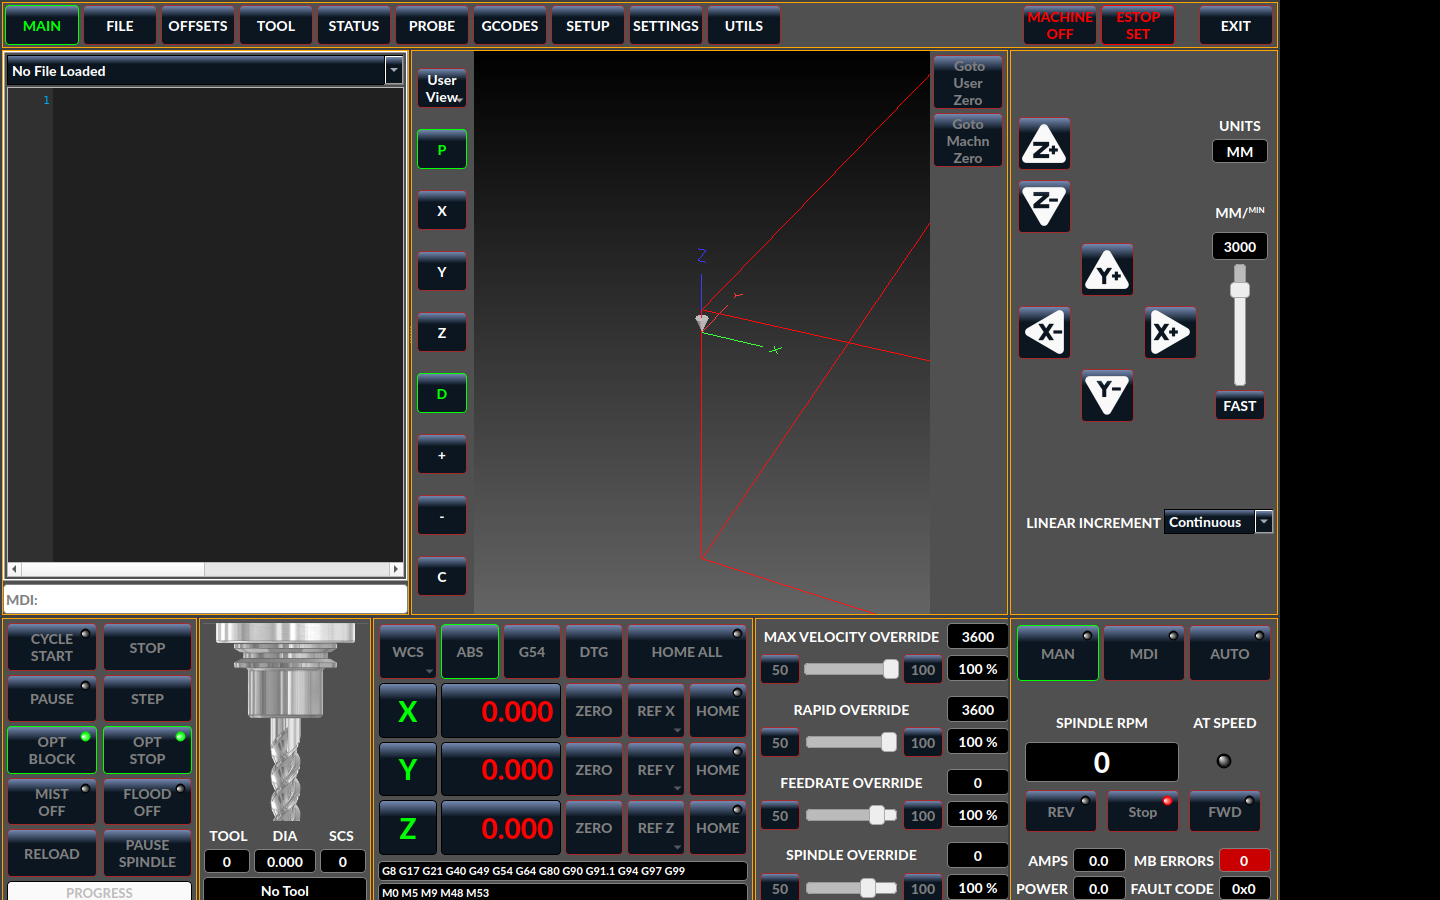
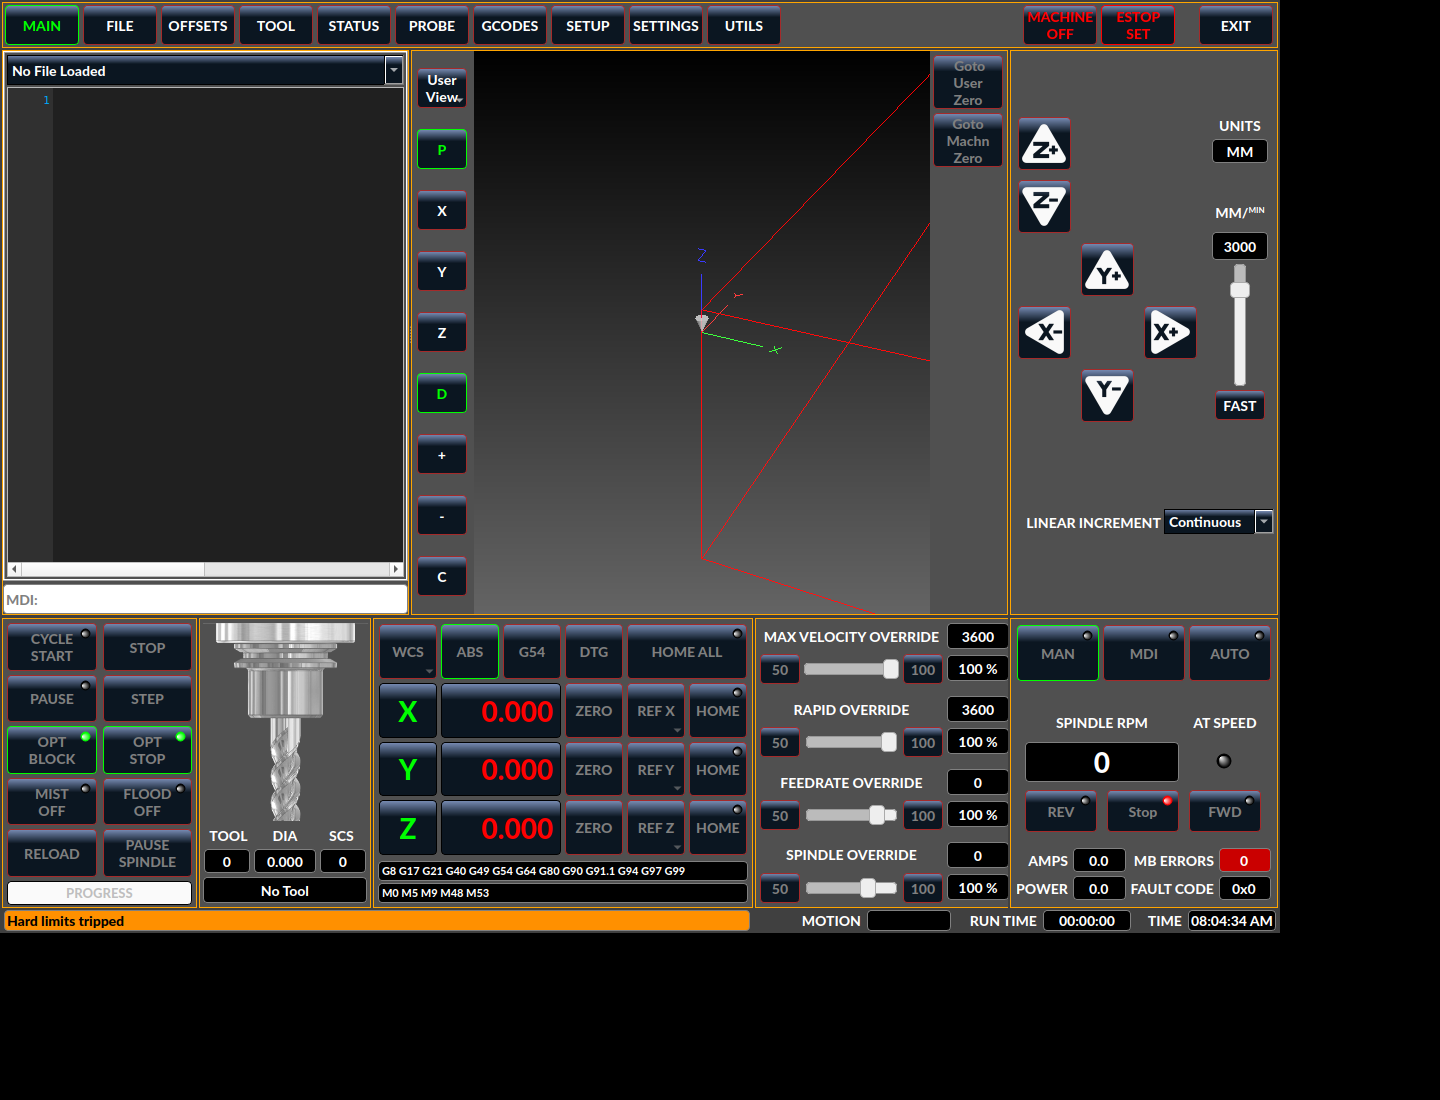
sesja 003: zapis wynikow i przekazanie przed koncem CI
Model-Author: Codex

diff --git a/docs/NASTEPNA_SESJA.md b/docs/NASTEPNA_SESJA.md
@@ -1,49 +1,74 @@
-# Przekazanie do następnej sesji
+# Przekazanie po sesji 003
 
-Model-Author: Codex · 2026-10-17
+Model-Author: Codex · 2026-10-18
 
-## Katalog i Git
+## Repozytorium i zasady
 
-Repo: https://github.com/anonimov94/linumeRT
-Aktualny checkout Windows:
-`C:/Users/pc/Documents/PythonProjects/linumeRT/.collaboration/linumeRT`
+Repo: https://github.com/anonimov94/linumeRT — PR sesji 003: #3.
+Przed pracą sprawdź jego stan, pobierz main i sprawdź czystość checkoutu.
+Windows: `C:/Users/pc/Documents/PythonProjects/linumeRT/.collaboration/linumeRT`.
 WSL: `/mnt/c/Users/pc/Documents/PythonProjects/linumeRT/.collaboration/linumeRT`.
-Katalog nadrzędny jest starszą kopią dokumentacji bez własnego repo; nie pracuj w nim.
+Katalog nadrzędny zawiera starszą kopię dokumentacji; nie pracuj w nim.
 
-PR #1: zasady współpracy, scalony. PR #2: paczka testowa z VNC, sprawdź aktualny
-stan przed rozpoczęciem. Dawne gałęzie sesji 001 i 002 są już zawarte w main.
+Claude niedostępny do odwołania. Codex pracuje samodzielnie: PR, jawna
+autokontrola i testy, merge po sukcesie. Po każdym ukończonym kroku commit
+i push, zawsze `Model-Author: Codex`. Nie nazywaj autokontroli niezależnym review.
 
-## Zasady użytkownika
+## Działające środowisko
 
-Claude jest niedostępny do odwołania. Codex kontynuuje samodzielnie przez PR,
-autokontrolę i testy; nie czeka na Claude. Oznaczaj autorstwo modelu w commitach,
-PR i dzienniku. Po każdym ukończonym kroku commit i push, bez czekania na koniec
-sesji lub limit tokenów. Po ukończonym etapie przekaż prompt następnej sesji.
+LinuxCNC gałąź 2.9, SHA `a33293f46575c809e082e0806e79ab996f982513`, RIP/uspace
+w `/home/pc/.cache/linuxcnc-2.9`. D20 przyjęta. Pełna budowa po make clean: 50 s.
+Raport: `docs/raporty/SPIKE_LINUXCNC.md`; zrzut: `spike_qtdragon.png` obok niego.
+Kod upstream niezmieniony. Ubuntu 24.04 WSL2 to środowisko dev non-realtime;
+docelowy system nadal Debian 12. NIEZWERYFIKOWANE NA SPRZĘCIE.
 
-## Gotowa paczka testowa
+```bash
+bash tools/ci/build-linuxcnc.sh
+.venv/bin/python tools/agent_tests/run.py --model Codex --linuxcnc
+make test-linuxcnc PYTHON=.venv/bin/python
+```
 
-`tools/agent_tests/README.md`: runner, launcher Windows i VNC.
-Pełna próba Windows -> WSL -> VNC -> terminal -> raport: PASS, 47 testów, czysty lint.
-Venv `.venv` z pytest/ruff istnieje w Ubuntu-24.04; python3-venv doinstalowany.
-Uruchomienie: `tools/agent_tests/Start-Tests.ps1 -Model Codex -DisplayNumber 11`.
-Jeśli ta sesja nadal działa, użyj istniejącego pulpitu zamiast uruchamiać drugi na
-tym samym porcie. Podczas przekazania aktywny podgląd paczki używał portu 5911,
-DISPLAY=:11 i XAUTHORITY=/tmp/linumert-vnc.atrgdu3j/Xauthority.
-Te dane dotyczą bieżącego uruchomienia; po restarcie odczytaj wartości z nowego startu.
-Starszy ręczny podgląd mógł pozostać na porcie 5909. Nie zabijaj obcych sesji.
-Lokalne raporty `state/test-runs/` są ignorowane przez Git.
+Venv używa systemowych pakietów GUI. Jeśli brak zależności:
+`bash tools/ci/build-linuxcnc.sh --install-deps` (apt wymaga administratora).
+WSL nie ma sudo bez hasła; zależności instalowano przez `wsl -u root`.
+Nie uruchamiaj builda ani GUI jako root. Nie wykonano `make setuid`.
 
-## Następne zadanie — sesja 003
+Testy: import, bazowanie trzech osi, ruch MDI i położenie końcowe, gotowość
+QtDragon oraz poprawne zamknięcie okna. API statusu upstream nie toleruje
+zbyt wczesnego pierwszego poll; fixture czeka na udany osobny proces próbny.
+Testowa preferencja shutdown_check=False omija dialog potwierdzenia zamknięcia.
 
-Przeczytaj AGENTS.md, CLAUDE.md, DECYZJE, trzy ostatnie wpisy DZIENNIK oraz
-`prompts/sesja-003.md`. Zrealizuj spike LinuxCNC 2.9 zgodnie z promptem:
-skrypt budowania RIP/uspace, test importu i konfiguracji sim, próba QtDragon
-pod Xvfb z raportem, workflow ręczny/tygodniowy i decyzja D20 na podstawie
-rzeczywistych wyników. Pokazuj postęp w terminalu VNC użytkownika.
+Workflow `linuxcnc.yml`: PR narzędzi integracyjnych, ręczny, tygodniowy;
+cache budowy i artefakty dowodowe. JSON/logi lokalne: `state/test-runs/`.
 
-LinuxCNC nie został jeszcze zbudowany ani uruchomiony w tej sesji.
-Nie wpisuj 003 do DONE przed spełnieniem kryteriów. Ubuntu WSL jest środowiskiem
-deweloperskim; docelowy system projektu nadal Debian 12 + LinuxCNC 2.9.
-Historyczny prompts/LOCK wskazuje sesję Claude 001; właściciel potwierdził,
-że Claude nie pracuje. Przejmij blokadę jawnie do swojej sesji, zachowując ślad
-w dzienniku. Nie instaluj ani nie uruchamiaj sterowania rzeczywistą maszyną.
+## VNC
+
+W tej sesji uruchomiono wspólny launcher na localhost:5911, DISPLAY=:11,
+XAUTHORITY=/tmp/linumert-vnc.rSYjwuGM/Xauthority. To dane bieżącego procesu,
+nie konfiguracja trwała. Sprawdź procesy przed uruchomieniem kolejnego pulpitu.
+Po restarcie użyj `tools/agent_tests/Start-Tests.ps1 -Model Codex -DisplayNumber 11`.
+Pokazuj także testy integracyjne w terminalu VNC. Nie zabijaj obcych sesji.
+
+## Następne zadanie — sesja 004
+
+Przeczytaj AGENTS.md, CLAUDE.md, DECYZJE, trzy ostatnie wpisy DZIENNIK i
+`prompts/sesja-004.md`. Zbuduj własną konfigurację `config/sim/linumert_xyz/`
+na bazie przykładów QtDragon: XYZ w mm, kontrakt D05, narzędzia i programy
+testowe, dokumentacja HAL i WSL. Rejestruj pochodzenie upstream i licencje.
+Wykorzystaj istniejący RIP i wspólny runner; sesja 003 nie tworzy docelowej
+konfiguracji ani Plant. Uporządkuj ścieżki PROGRAM_PREFIX/NGCGUI, które
+w przykładzie upstream dają ostrzeżenia. Opcjonalny podgląd PDF nie jest testowany.
+
+Historyczną blokadę Claude 001 przejęto jawnie w dzienniku sesji 003.
+Przed następną pracą sprawdź `prompts/LOCK`; nie uruchamiaj równoległych LinuxCNC.
+
+## Stan zatrzymania na prośbę właściciela
+
+Praca zatrzymana 2026-10-18. Sesja 003 NIE jest jeszcze wpisana do DONE.
+Najpierw dokończ sesję 003: sprawdź aktualne kontrole PR #3, wykonaj autokontrolę
+końcowego diffu, scal dopiero po sukcesie, dopisz DONE i zwolnij blokadę.
+Dopiero potem przejdź do sesji 004 opisanej wyżej.
+Ostatni lokalny runner: PASS, 47 testów bazowych + 2 integracyjne, lint i diff OK.
+Raport: `state/test-runs/20261018T060319.515034Z-Codex/report.json`.
+Pełna przebudowa po make clean: 50 s. CI Python zielone; CI LinuxCNC nadal
+trwało przy zatrzymaniu. PR pozostaje draft, bez merge. Pulpit VNC pozostawiony.

diff --git a/docs/raporty/SPIKE_LINUXCNC.md b/docs/raporty/SPIKE_LINUXCNC.md
@@ -28,7 +28,7 @@ python3 -m venv --system-site-packages .venv
 ```
 
 Osobno: `make test-linuxcnc PYTHON=.venv/bin/python`. Ten cel ładuje
-`scripts/rip-environment`, uruchamia Xvfb 1440×900 i testy z markerem linuxcnc.
+`scripts/rip-environment`, uruchamia Xvfb 1440×1100 i testy z markerem linuxcnc.
 Brak budowy kończy się błędem. Skrypt budowy ponownie używa zgodnego cache;
 nie aktualizuje samodzielnie istniejącego checkoutu. Zmiana rewizji upstream
 wymaga jawnego fetch/checkout lub nowego katalogu `LINUXCNC_DIR`.
@@ -53,6 +53,8 @@ wymaga jawnego fetch/checkout lub nowego katalogu `LINUXCNC_DIR`.
 1. `debian/configure no-docs` ostrzega o nierozpoznanej wersji Ubuntu 24.04.
    Listę zależności oparto na wygenerowanym `debian/control` i doprecyzowano
    przez rzeczywistą kompilację. Brak `a2x` wymagał AsciiDoc, DocBook i xsltproc.
+   Czysty runner CI ujawnił dodatkowo brak `docbook-xml` (DTD) przy instalacji
+   bez rekomendacji; dodano go jawnie wraz z `libxml2-utils`.
 2. Wywołanie `linuxcnc.stat().poll()` zanim powstanie pamięć narzędzi ustawia
    w upstream trwały dla procesu stan błędu `mmap_available`. Gotowość sprawdza
    osobny krótki proces; właściwy klient powstaje dopiero po sukcesie próby.
@@ -62,7 +64,8 @@ wymaga jawnego fetch/checkout lub nowego katalogu `LINUXCNC_DIR`.
    (brak python3-poppler-qt5) oraz ścieżek NGCGUI/PROGRAM_PREFIX. Nie blokują
    ekranu; konfiguracja sesji 004 powinna ustawić własne poprawne ścieżki.
 5. Zatrzymywanie całej grupy sygnałem SIGTERM powodowało awarię Qt podczas
-   zamykania. Test zamyka okno komunikatem WM_DELETE_WINDOW i kontroluje log.
+   zamykania. Test zamyka okno komunikatem WM_DELETE_WINDOW, wyłącza dialog
+   potwierdzenia tylko w tymczasowym qtdragon.pref i kontroluje log.
 6. Zdarzały się przekroczenia okresu pętli symulacji pod WSL. To środowisko
    funkcjonalnych testów non-realtime, nie pomiar opóźnień docelowego jądra RT.
 
@@ -72,3 +75,12 @@ wymaga jawnego fetch/checkout lub nowego katalogu `LINUXCNC_DIR`.
 dla PR zmieniających narzędzia integracyjne. Cache uwzględnia SHA upstream,
 wersję systemu, architekturę i skrypt budowania. Instalacja zależności jest
 wykonywana również przy trafieniu cache. Każdy przebieg ponawia testy.
+
+## Pomiar i końcowy stan lokalny
+
+Pełna kompilacja po `make clean`: **50 s** (autogen + configure + make -j12,
+bez apt i klonowania). Wcześniejsza przebudowa przyrostowa: 14 s.
+Końcowy runner lokalny: PASS — 47 testów bazowych i 2 integracyjne, lint/diff OK.
+Raport: `state/test-runs/20261018T060319.515034Z-Codex/report.json`.
+Na polecenie właściciela zakończono pracę przed ukończeniem CI LinuxCNC.
+CI Python przeszło; PR #3 pozostaje otwarty. Sesja 003 nie jest jeszcze w DONE.

diff --git a/docs/DZIENNIK.md b/docs/DZIENNIK.md
@@ -45,3 +45,11 @@ Najnowsze wpisy na dole. Każda sesja dopisuje: zrobione · decyzje · do sprawd
 - Model-Author: Codex. Przejęto historyczną blokadę sesji 001 Claude zgodnie z poleceniem właściciela; PR #2 scalony, checkout czysty.
 - Budowa i testy LinuxCNC w WSL; pulpit VNC uruchomiony ponownie na porcie 5911.
 
+
+## 003 — Spike: LinuxCNC 2.9 w środowisku agenta (2026-10-18, do dokończenia)
+- Model-Author: Codex.
+- Zrobione: budowa RIP/uspace upstream a33293f46575c809e082e0806e79ab996f982513; skrypt apt/build/cache; pełna kompilacja po make clean 50 s; import, headless sim, bazowanie XYZ, ruch MDI i pozycja końcowa, QtDragon/Xvfb i zrzut; integracja wspólnego runnera; workflow PR/ręczny/tygodniowy; raport, licencje i provenance.
+- Testy lokalne: PASS, 47 bazowych + 2 integracyjne, lint i diff OK. Raport state/test-runs/20261018T060319.515034Z-Codex/report.json. Testy pokazywane w VNC localhost:5911.
+- Decyzje: D20 przyjęta dla testów funkcjonalnych non-realtime. Bez zmian kodu upstream i bez make setuid. Tymczasowa preferencja QtDragon wyłącza dialog zamknięcia, test weryfikuje brak awarii przy wyjściu.
+- Do sprawdzenia: najnowsze CI LinuxCNC PR #3 (trwa przy zatrzymaniu), autokontrola końcowego diffu i merge po zielonych kontrolach. CI Python przeszło. NIEZWERYFIKOWANE NA SPRZĘCIE.
+- Długi: użytkownik polecił kończyć i wypchnąć postęp; PR pozostaje draft, bez merge i bez wpisu 003 do DONE. Najpierw zamknąć 003, potem sesja 004. Szczegóły w docs/NASTEPNA_SESJA.md.
